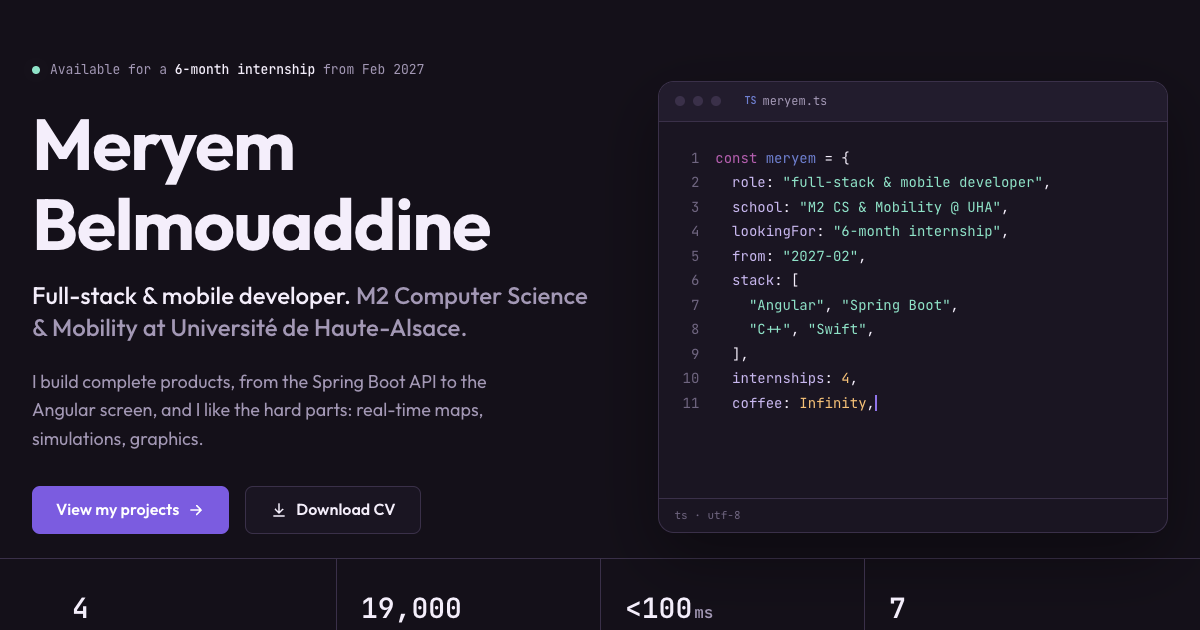
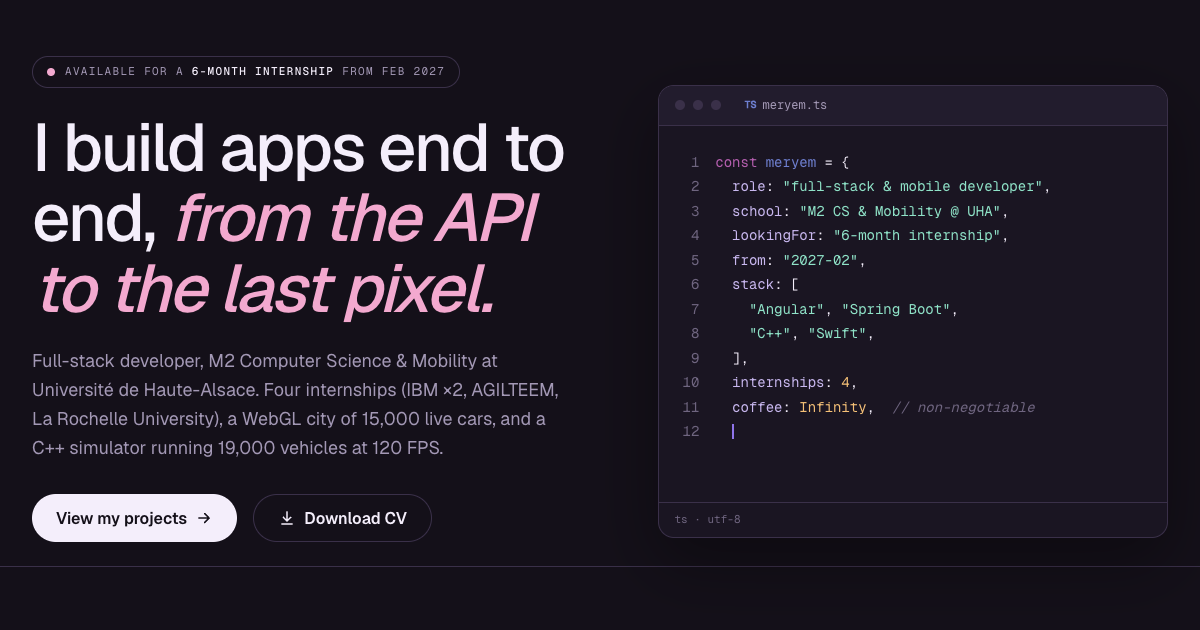
Portfolio v2.1: statement headline, through-line, numbered work with figures, Geist

diff --git a/css/style.css b/css/style.css
@@ -26,8 +26,8 @@
   --s1:8px; --s2:16px; --s3:24px; --s4:32px; --s5:48px; --s6:64px; --s7:96px; --s8:128px;
   --r-sm:8px; --r-md:12px; --r-lg:16px;
   --container:1120px;
-  --sans:'Outfit',system-ui,-apple-system,sans-serif;
-  --mono:'JetBrains Mono',ui-monospace,Menlo,monospace;
+  --sans:'Geist',system-ui,-apple-system,sans-serif;
+  --mono:'Geist Mono',ui-monospace,Menlo,monospace;
   --ease:cubic-bezier(.2,.8,.2,1);
 }
 
@@ -55,11 +55,11 @@ h1,h2,h3{font-weight:700;line-height:1.1;letter-spacing:-.02em;}
 .label .k{color:var(--accent-hover);}
 
 /* ============ buttons ============ */
-.btn{display:inline-flex;align-items:center;gap:var(--s1);height:48px;padding:0 var(--s3);border-radius:var(--r-sm);font-weight:600;font-size:1rem;transition:background .2s,border-color .2s,transform .2s;white-space:nowrap;}
+.btn{display:inline-flex;align-items:center;gap:var(--s1);height:48px;padding:0 var(--s3);border-radius:999px;font-weight:600;font-size:1rem;transition:background .2s,border-color .2s,transform .2s;white-space:nowrap;}
 .btn svg{width:18px;height:18px;flex:none;}
-.btn-primary{background:var(--accent);color:#fff;}
-.btn-primary:hover{background:var(--accent-hover);}
-.btn-secondary{border:1px solid var(--line);color:var(--text);background:var(--surface);}
+.btn-primary{background:var(--text);color:var(--bg);}
+.btn-primary:hover{background:#fff;}
+.btn-secondary{border:1px solid var(--line);color:var(--text);background:transparent;}
 .btn-secondary:hover{border-color:var(--muted);}
 .btn:active{transform:translateY(1px);}
 .btn-sm{height:36px;padding:0 var(--s2);font-size:.875rem;}
@@ -144,9 +144,9 @@ h1,h2,h3{font-weight:700;line-height:1.1;letter-spacing:-.02em;}
 .media img,.media video{position:absolute;inset:0;width:100%;height:100%;object-fit:cover;object-position:top center;transition:opacity .4s,transform .6s var(--ease);}
 .media video{opacity:0;}
 .media.playing video{opacity:1;}
-.card:hover .media img,.card:hover .media video{transform:scale(1.03);}
+.card:hover .media img,.card:hover .media video,.entry:hover .media img,.entry:hover .media video{transform:scale(1.03);}
 .media-hint{position:absolute;right:var(--s2);bottom:var(--s2);font-family:var(--mono);font-size:.75rem;padding:4px 10px;border-radius:999px;background:rgba(20,16,25,.85);color:var(--text);border:1px solid var(--line);opacity:0;transform:translateY(4px);transition:.25s;}
-.card:hover .media-hint,.media:focus-visible .media-hint{opacity:1;transform:none;}
+.card:hover .media-hint,.entry:hover .media-hint,.media:focus-visible .media-hint{opacity:1;transform:none;}
 .card-body{padding:var(--s3);display:flex;flex-direction:column;flex:1;}
 .card-top{display:flex;justify-content:space-between;align-items:center;gap:var(--s2);margin-bottom:var(--s1);}
 .kind{font-family:var(--mono);font-size:.75rem;color:var(--muted);}
@@ -289,4 +289,53 @@ footer a:hover{color:var(--text);}
 @media (prefers-reduced-motion:reduce){
   *,*::before,*::after{animation:none !important;transition:none !important;scroll-behavior:auto !important;}
   .reveal{opacity:1;transform:none;}
+}
+
+/* ============ v2.1: statement headlines, pill nav, numbered work ============ */
+em.hl{font-style:italic;color:var(--rose);font-weight:inherit;}
+.nav .container{max-width:1240px;}
+.brand{font-family:var(--sans);font-size:.9375rem;font-weight:500;display:flex;align-items:center;gap:10px;}
+.brand .mark{width:28px;height:28px;border-radius:50%;display:grid;place-items:center;background:var(--card-2);border:1px solid var(--line);font-family:var(--mono);font-size:.75rem;color:var(--rose);}
+.nav-pill{border:1px solid var(--line);border-radius:999px;padding:8px 22px;background:rgba(26,21,34,.6);}
+.nav-links{gap:var(--s3);}
+.hero h1{font-size:clamp(2.5rem,5.6vw,4.25rem);font-weight:500;letter-spacing:-.035em;line-height:1.05;margin-bottom:var(--s3);}
+.status{border:1px solid var(--line);border-radius:999px;padding:6px 14px;text-transform:uppercase;letter-spacing:.12em;font-size:.6875rem;}
+.status .dot{background:var(--rose);animation:pulse-rose 2s infinite;}
+@keyframes pulse-rose{0%{box-shadow:0 0 0 0 rgba(243,169,207,.5);}70%{box-shadow:0 0 0 8px rgba(243,169,207,0);}100%{box-shadow:0 0 0 0 rgba(243,169,207,0);}}
+.hero .lead{max-width:540px;}
+.throughline{border-top:1px solid var(--line);border-bottom:1px solid var(--line);padding:var(--s6) 0;}
+.throughline .container{display:grid;grid-template-columns:200px 1fr;gap:var(--s4);align-items:baseline;}
+.throughline p{font-size:clamp(1.5rem,3vw,2.25rem);font-weight:500;letter-spacing:-.025em;line-height:1.25;max-width:880px;}
+.work{border-top:1px solid var(--line);}
+.entry{display:grid;grid-template-columns:72px 1fr 1.15fr;gap:var(--s4);padding:var(--s5) 0;border-bottom:1px solid var(--line);align-items:start;}
+.entry.hidden{display:none;}
+.entry .idx{font-family:var(--mono);font-size:.8125rem;color:var(--faint);padding-top:6px;}
+.entry .role-line{font-family:var(--mono);font-size:.75rem;color:var(--muted);text-transform:uppercase;letter-spacing:.08em;margin-bottom:var(--s2);}
+.entry h3{font-size:clamp(1.5rem,2.6vw,2rem);font-weight:500;letter-spacing:-.025em;margin-bottom:var(--s2);}
+.entry .desc{color:var(--muted);margin-bottom:var(--s3);max-width:460px;}
+.figures{display:grid;grid-template-columns:repeat(3,auto);justify-content:start;gap:var(--s2) var(--s4);margin-bottom:var(--s3);}
+.figures div{display:flex;flex-direction:column;}
+.figures b{font-family:var(--mono);font-size:1.375rem;font-weight:500;color:var(--text);line-height:1.2;}
+.figures span{font-size:.8125rem;color:var(--muted);max-width:150px;line-height:1.35;margin-top:4px;}
+.entry .media{border:1px solid var(--line);border-radius:var(--r-lg);}
+.entry-links{display:flex;gap:var(--s3);flex-wrap:wrap;}
+.work-count{font-family:var(--mono);font-size:.8125rem;color:var(--faint);}
+.contact .h2{font-weight:500;letter-spacing:-.035em;}
+.section-head .h2{font-weight:500;letter-spacing:-.03em;}
+@media (max-width:1000px){
+  .entry{grid-template-columns:48px 1fr;}
+  .entry .media{grid-column:2;grid-row:1;}
+  .entry .entry-text{grid-column:2;}
+  .entry .idx{grid-row:1;}
+}
+@media (max-width:820px){
+  .nav-pill{border:none;padding:0;background:none;}
+  .throughline .container{grid-template-columns:1fr;gap:var(--s2);}
+}
+@media (max-width:640px){
+  .entry{grid-template-columns:1fr;gap:var(--s2);padding:var(--s4) 0;}
+  .entry .media,.entry .entry-text,.entry .idx{grid-column:1;grid-row:auto;}
+  .entry .idx{padding-top:0;}
+  .figures{grid-template-columns:repeat(2,auto);}
+  .brand .name{display:none;}
 }

diff --git a/index.html b/index.html
@@ -18,7 +18,7 @@
 <link rel="icon" href="assets/favicon.svg" type="image/svg+xml">
 <link rel="preconnect" href="https://fonts.googleapis.com">
 <link rel="preconnect" href="https://fonts.gstatic.com" crossorigin>
-<link href="https://fonts.googleapis.com/css2?family=Outfit:wght@400;500;600;700&family=JetBrains+Mono:ital,wght@0,400;0,500;0,600;1,400&display=swap" rel="stylesheet">
+<link href="https://fonts.googleapis.com/css2?family=Geist:wght@400;500;600;700&family=Geist+Mono:wght@400;500&display=swap" rel="stylesheet">
 <link rel="stylesheet" href="css/style.css">
 <script type="application/ld+json">
 {"@context":"https://schema.org","@type":"Person","name":"Meryem Belmouaddine","jobTitle":"Full-stack & mobile developer","url":"https://miaaa3.github.io/",
@@ -43,8 +43,8 @@
 
 <header class="nav" id="nav">
   <div class="container">
-    <a href="#top" class="brand" aria-label="Meryem Belmouaddine, back to top"><span class="p">~/</span>meryem<span class="cur" aria-hidden="true"></span></a>
-    <nav aria-label="Main">
+    <a href="#top" class="brand" aria-label="Meryem Belmouaddine, back to top"><span class="mark" aria-hidden="true">mb</span><span class="name">Meryem Belmouaddine</span></a>
+    <nav aria-label="Main" class="nav-pill">
       <ul class="nav-links" id="navLinks">
         <li><a href="#projects" data-i18n="nav.projects">Projects</a></li>
         <li><a href="#experience" data-i18n="nav.exp">Experience</a></li>
@@ -70,9 +70,8 @@
   <div class="container">
     <div>
       <p class="status"><span class="dot" aria-hidden="true"></span><span data-i18n="hero.status">Available for a <b>6-month internship</b> from Feb 2027</span></p>
-      <h1 class="h1">Meryem Belmouaddine</h1>
-      <p class="role" data-i18n="hero.role"><b>Full-stack &amp; mobile developer.</b> M2 Computer Science &amp; Mobility at Université de Haute-Alsace.</p>
-      <p class="lead" data-i18n="hero.lead">I build complete products, from the Spring Boot API to the Angular screen, and I like the hard parts: real-time maps, simulations, graphics.</p>
+      <h1 data-i18n="hero.title">I build apps end to end, <em class="hl">from the API to the last pixel.</em></h1>
+      <p class="lead" data-i18n="hero.lead">Full-stack developer, M2 Computer Science &amp; Mobility at Université de Haute-Alsace. Four internships (IBM ×2, AGILTEEM, La Rochelle University), a WebGL city of 15,000 live cars, and a C++ simulator running 19,000 vehicles at 120 FPS.</p>
       <div class="hero-actions">
         <a href="#projects" class="btn btn-primary"><span data-i18n="hero.cta1">View my projects</span><svg aria-hidden="true"><use href="#i-arrow"/></svg></a>
         <a href="assets/CV-Meryem-Belmouaddine.pdf" class="btn btn-secondary" target="_blank" rel="noopener"><svg aria-hidden="true"><use href="#i-down"/></svg><span data-i18n="hero.cta2">Download CV</span></a>
@@ -92,14 +91,12 @@
   </div>
 </section>
 
-<div class="metrics">
+<section class="throughline" aria-label="Approach">
   <div class="container">
-    <div class="metric"><div class="num"><span class="count" data-to="4">4</span></div><div class="lbl" data-i18n="m.1">internships shipped</div></div>
-    <div class="metric"><div class="num"><span class="count" data-to="19000">19,000</span></div><div class="lbl" data-i18n="m.2">vehicles at 120 FPS (C++)</div></div>
-    <div class="metric"><div class="num">&lt;<span class="count" data-to="100">100</span><small>ms</small></div><div class="lbl" data-i18n="m.3">to stream 15K cars to a browser</div></div>
-    <div class="metric"><div class="num"><span class="count" data-to="7">7</span></div><div class="lbl" data-i18n="m.4">open-source projects</div></div>
+    <span class="label" data-i18n="tl.k">the through-line</span>
+    <p class="reveal" data-i18n="tl.v">I take something real and messy (a teacher's lesson plan, a city's road network, a volunteering community) and turn it into software people actually use.</p>
   </div>
-</div>
+</section>
 
 <!-- ============ PROJECTS ============ -->
 <section class="section" id="projects">
@@ -107,7 +104,7 @@
     <div class="section-head">
       <div>
         <span class="label"><span class="k">ls</span> ./projects</span>
-        <h2 class="h2" data-i18n="proj.title">Selected projects</h2>
+        <h2 class="h2" data-i18n="proj.title">Selected work</h2>
       </div>
       <p data-i18n="proj.sub">All open source, documented and runnable. Open one for screenshots and details.</p>
     </div>
@@ -117,8 +114,7 @@
       <button type="button" data-filter="graphics" aria-pressed="false" data-i18n="filter.graphics">graphics &amp; simulation</button>
       <button type="button" data-filter="systems" aria-pressed="false" data-i18n="filter.systems">C / C++ &amp; vision</button>
     </div>
-    <div class="grid-featured" id="featured"></div>
-    <div class="grid-more" id="more"></div>
+    <div class="work" id="work"></div>
   </div>
 </section>
 
@@ -240,8 +236,8 @@
 <section class="section contact" id="contact">
   <div class="container">
     <span class="label"><span class="k">ping</span> meryem</span>
-    <h2 class="h2" style="margin-top:16px" data-i18n="contact.title">Looking for an intern who ships? Let's talk.</h2>
-    <p data-i18n="contact.text">I'm available for a 6-month end-of-studies internship from February 2027.</p>
+    <h2 class="h2" style="margin-top:16px" data-i18n="contact.title">Open to a 6-month internship from February 2027, <em class="hl">in Alsace or anywhere in France.</em></h2>
+    <p data-i18n="contact.text">On site, end-of-studies internship. Every project above comes with its code and a demo.</p>
     <a class="email-big" id="emailBig" href="mailto:belmouaddine.ptech@gmail.com"><span>belmouaddine.ptech@gmail.com</span><span class="copy" data-i18n="contact.copy">click to copy</span></a>
     <div class="contact-actions">
       <a class="btn btn-primary" href="https://www.linkedin.com/in/meryem-belmouaddine" target="_blank" rel="noopener"><svg aria-hidden="true"><use href="#i-linkedin"/></svg>LinkedIn</a>

diff --git a/js/projects.js b/js/projects.js
@@ -3,6 +3,8 @@ window.PROJECTS = [
   {
     id: 'nexus', featured: true, cat: 'web graphics', kind: 'master', year: '2026',
     title: 'NexusNexus',
+    role: { en: "Master's project · UHA · solo", fr: 'Projet de master · UHA · seule' },
+    figures: [{ v: { en: '15,000+', fr: '15 000+' }, l: { en: 'vehicles at 60 FPS', fr: 'véhicules à 60 FPS' } }, { v: '<100 ms', l: { en: 'WebSocket latency', fr: 'latence WebSocket' } }, { v: '~5×', l: { en: 'less data with delta frames', fr: 'moins de données (deltas)' } }],
     desc: {
       en: 'Real-time smart-city traffic platform. Thousands of vehicles drive on the real streets of La Rochelle, streamed live to a WebGL dashboard with neighbourhood analytics.',
       fr: 'Plateforme de trafic de smart city en temps réel. Des milliers de véhicules roulent dans les vraies rues de La Rochelle, diffusés en direct vers un tableau de bord WebGL avec des analyses par quartier.'
@@ -20,6 +22,8 @@ window.PROJECTS = [
   {
     id: 'v2v', featured: true, cat: 'graphics systems', kind: 'master', year: '2026',
     title: 'V2V Simulator',
+    role: { en: "Master's project · UHA · with M. Chouadra", fr: 'Projet de master · UHA · avec M. Chouadra' },
+    figures: [{ v: { en: '19,000', fr: '19 000' }, l: { en: 'vehicles simulated', fr: 'véhicules simulés' } }, { v: '120 FPS', l: { en: 'on a MacBook M2', fr: 'sur MacBook M2' } }, { v: { en: '~3.6 ms', fr: '~3,6 ms' }, l: { en: 'per frame', fr: 'par image' } }],
     desc: {
       en: 'Vehicle-to-vehicle communication simulator in C++/OpenGL. Cars drive on any OpenStreetMap city and form a live radio network you can watch and inspect.',
       fr: 'Simulateur de communication véhicule-à-véhicule en C++/OpenGL. Les voitures roulent sur n’importe quelle ville OpenStreetMap et forment un réseau radio vivant, observable et inspectable.'
@@ -37,6 +41,8 @@ window.PROJECTS = [
   {
     id: 'lingobingo', featured: true, cat: 'web', kind: 'intern', year: '2025',
     title: 'LingoBingo',
+    role: { en: 'Internship · La Rochelle University', fr: 'Stage · La Rochelle Université' },
+    figures: [{ v: '2', l: { en: 'sides: teachers and students', fr: 'côtés : profs et étudiants' } }, { v: '1', l: { en: 'Docker command to run it all', fr: 'commande Docker pour tout lancer' } }, { v: '0', l: { en: 'quiz answers sent to the browser', fr: 'réponse envoyée au navigateur' } }],
     desc: {
       en: 'Learning platform built during my internship at La Rochelle University: Quizlet-style flashcards and Kahoot-style live quizzes, for teachers and students.',
       fr: 'Plateforme d’apprentissage réalisée pendant mon stage à La Rochelle Université : cartes mémoire façon Quizlet et quiz en direct façon Kahoot, pour profs et étudiants.'
@@ -54,6 +60,8 @@ window.PROJECTS = [
   {
     id: 'helpinghands', featured: true, cat: 'web', kind: 'intern', year: '2023 – 2026',
     title: 'HelpingHands',
+    role: { en: 'Started at IBM · rebuilt independently', fr: 'Commencé chez IBM · reconstruit ensuite' },
+    figures: [{ v: '3', l: { en: 'role dashboards', fr: 'tableaux de bord par rôle' } }, { v: 'Live', l: { en: 'chat over WebSocket', fr: 'chat en WebSocket' } }, { v: 'CI', l: { en: 'GitHub Actions on every push', fr: 'GitHub Actions à chaque push' } }],
     desc: {
       en: 'Volunteering social network started during my IBM internship, then rebuilt. Volunteers find missions and chat with organisations; admins verify and moderate.',
       fr: 'Réseau social du bénévolat commencé pendant mon stage chez IBM, puis reconstruit. Les bénévoles trouvent des missions et discutent avec les associations ; les admins vérifient et modèrent.'
@@ -71,6 +79,8 @@ window.PROJECTS = [
   {
     id: 'klosnowo', cat: 'systems', kind: 'school', year: '2026',
     title: 'Klosnowo',
+    role: { en: 'School project · ENSISA Immersion 2026', fr: 'Projet d\u2019école · ENSISA Immersion 2026' },
+    figures: [{ v: '4', l: { en: 'game modes', fr: 'modes de jeu' } }, { v: 'depth 4', l: { en: 'Minimax + alpha-beta', fr: 'Minimax + alpha-bêta' } }, { v: '0', l: { en: 'dependencies', fr: 'dépendance' } }],
     desc: {
       en: 'Strategy board game in pure C, played in the terminal against a friend, a Minimax AI, or over the network.',
       fr: 'Jeu de plateau de stratégie en C pur, dans le terminal, contre un ami, une IA Minimax ou en réseau.'
@@ -88,6 +98,8 @@ window.PROJECTS = [
   {
     id: 'lbp', cat: 'systems', kind: 'master', year: '2026',
     title: 'LBP Parking Classifier',
+    role: { en: "Master's lab · UHA · extended", fr: 'TP de master · UHA · enrichi' },
+    figures: [{ v: { en: '94.5%', fr: '94,5 %' }, l: { en: 'accuracy on unseen images', fr: 'de réussite sur images inédites' } }, { v: '6', l: { en: 'distances compared', fr: 'distances comparées' } }, { v: '+2 pts', l: { en: 'from data augmentation', fr: 'grâce à l\u2019augmentation' } }],
     desc: {
       en: 'Computer vision without deep learning: a hand-written texture descriptor decides whether a parking spot is free.',
       fr: 'Vision par ordinateur sans deep learning : un descripteur de texture écrit à la main décide si une place de parking est libre.'
@@ -105,6 +117,8 @@ window.PROJECTS = [
   {
     id: 'togetherly', cat: 'web', kind: 'team', year: '2023',
     title: 'Togetherly',
+    role: { en: 'Team project · with Fattah Amil', fr: 'Projet d\u2019équipe · avec Fattah Amil' },
+    figures: [{ v: '3', l: { en: 'roles with JWT', fr: 'rôles avec JWT' } }, { v: 'Live', l: { en: 'chat between friends', fr: 'chat entre amis' } }],
     desc: {
       en: 'Team project with Fattah Amil: a social network with roles, posts, follows that become friendships, and real-time chat.',
       fr: 'Projet d’équipe avec Fattah Amil : un réseau social avec rôles, posts, abonnements qui deviennent des amitiés, et chat temps réel.'

diff --git a/js/main.js b/js/main.js
@@ -48,32 +48,33 @@
   }
 
   /* ============ projects ============ */
-  function card(p) {
+  const pad = n => String(n).padStart(2, '0');
+  function entry(p, i, total) {
     return `
-      <article class="card reveal" data-cat="${p.cat}">
+      <article class="entry reveal" data-cat="${p.cat}">
+        <div class="idx">${pad(i + 1)} / ${pad(total)}</div>
+        <div class="entry-text">
+          <p class="role-line">${esc(pick(p.role))} · ${p.year}</p>
+          <h3>${p.title}</h3>
+          <p class="desc">${pick(p.desc)}</p>
+          <div class="figures">${p.figures.map(f => `<div><b>${esc(pick(f.v))}</b><span>${esc(pick(f.l))}</span></div>`).join('')}</div>
+          <div class="tags">${p.tags.map(x => `<span class="tag">${x}</span>`).join('')}</div>
+          <div class="entry-links">
+            <button type="button" class="btn btn-secondary btn-sm" data-open="${p.id}">${t().details}${icon('arrow')}</button>
+            <a class="text-link" href="${p.repo}" target="_blank" rel="noopener">${icon('github')}${t().code}</a>
+          </div>
+        </div>
         <button type="button" class="media" data-open="${p.id}" aria-label="${esc(p.title)}: ${t().details}">
           <img src="${p.cover}" alt="" loading="lazy" decoding="async">
           ${p.video ? `<video muted loop playsinline preload="none" poster="${p.cover}" data-src="${p.video}"></video>` : ''}
           <span class="media-hint">${p.video ? t().watch : t().screens} ↗</span>
         </button>
-        <div class="card-body">
-          <div class="card-top"><span class="kind">${t().kinds[p.kind]}</span><span class="year">${p.year}</span></div>
-          <h3 class="h3">${p.title}</h3>
-          <p class="desc">${pick(p.desc)}</p>
-          <p class="metric-line">${esc(pick(p.metric))}</p>
-          <div class="tags">${p.tags.map(x => `<span class="tag">${x}</span>`).join('')}</div>
-          <div class="card-links">
-            <a class="text-link" href="${p.repo}" target="_blank" rel="noopener">${icon('github')}${t().code}</a>
-            <button type="button" class="text-link" data-open="${p.id}">${t().details}${icon('arrow')}</button>
-          </div>
-        </div>
       </article>`;
   }
 
   let videoObserver, currentFilter = 'all';
   function renderProjects() {
-    $('#featured').innerHTML = PROJECTS.filter(p => p.featured).map(card).join('');
-    $('#more').innerHTML = PROJECTS.filter(p => !p.featured).map(card).join('');
+    $('#work').innerHTML = PROJECTS.map((p, i) => entry(p, i, PROJECTS.length)).join('');
     applyFilter(currentFilter);
     observeReveal($$('#projects .reveal'));
     if (videoObserver) videoObserver.disconnect();
@@ -91,7 +92,7 @@
   function applyFilter(f) {
     currentFilter = f;
     $$('.filters button').forEach(b => b.setAttribute('aria-pressed', String(b.dataset.filter === f)));
-    $$('.card').forEach(c => c.classList.toggle('hidden', !(f === 'all' || c.dataset.cat.split(' ').includes(f))));
+    $$('.entry').forEach(c => c.classList.toggle('hidden', !(f === 'all' || c.dataset.cat.split(' ').includes(f))));
   }
   $$('.filters button').forEach(b => b.addEventListener('click', () => applyFilter(b.dataset.filter)));
 

diff --git a/js/i18n.js b/js/i18n.js
@@ -4,11 +4,12 @@ window.I18N_FR = {
   'nav.projects': 'Projets', 'nav.exp': 'Parcours', 'nav.skills': 'Compétences', 'nav.about': 'À propos', 'nav.contact': 'Contact', 'nav.cv': 'CV',
 
   'hero.status': 'Disponible pour un <b>stage de 6 mois</b> dès février 2027',
-  'hero.role': '<b>Développeuse full-stack &amp; mobile.</b> M2 Informatique et Mobilité à l’Université de Haute-Alsace.',
-  'hero.lead': 'Je construis des produits complets, de l’API Spring Boot jusqu’à l’écran Angular, et j’aime les parties difficiles : cartes temps réel, simulations, graphisme.',
+  'hero.title': 'Je construis des applis de bout en bout, <em class="hl">de l\u2019API au dernier pixel.</em>',
+  'hero.lead': 'Développeuse full-stack, M2 Informatique et Mobilité à l\u2019Université de Haute-Alsace. Quatre stages (IBM ×2, AGILTEEM, La Rochelle Université), une ville WebGL de 15 000 voitures en direct, et un simulateur C++ qui fait rouler 19 000 véhicules à 120 FPS.',
+  'tl.k': 'le fil rouge',
+  'tl.v': 'Je prends quelque chose de réel et de désordonné (le cours d\u2019un prof, le réseau routier d\u2019une ville, une communauté de bénévoles) et j\u2019en fais un logiciel que les gens utilisent vraiment.',
   'hero.cta1': 'Voir mes projets', 'hero.cta2': 'Télécharger mon CV',
 
-  'm.1': 'stages réalisés', 'm.2': 'véhicules à 120 FPS (C++)', 'm.3': 'pour diffuser 15K voitures au navigateur', 'm.4': 'projets open source',
 
   'proj.title': 'Projets choisis',
   'proj.sub': 'Tous open source, documentés et lançables. Ouvrez-en un pour les captures et les détails.',
@@ -45,8 +46,8 @@ window.I18N_FR = {
   'f.mode.k': 'mode', 'f.mode.v': 'Sur site, Alsace en priorité',
   'f.fuel.k': 'carburant', 'f.fuel.v': 'Latte avoine, double shot',
 
-  'contact.title': 'Vous cherchez une stagiaire qui livre ? Parlons-en.',
-  'contact.text': 'Je suis disponible pour un stage de fin d’études de 6 mois à partir de février 2027.',
+  'contact.title': 'Disponible pour un stage de 6 mois dès février 2027, <em class="hl">en Alsace ou partout en France.</em>',
+  'contact.text': 'Stage de fin d\u2019études, sur site. Chaque projet ci-dessus est livré avec son code et une démo.',
   'contact.copy': 'cliquer pour copier', 'contact.cv': 'CV (PDF)',
   'footer': '// HTML, CSS et JS écrits à la main. sans framework, sans template.',
   'footer.top': 'retour en haut ↑'
